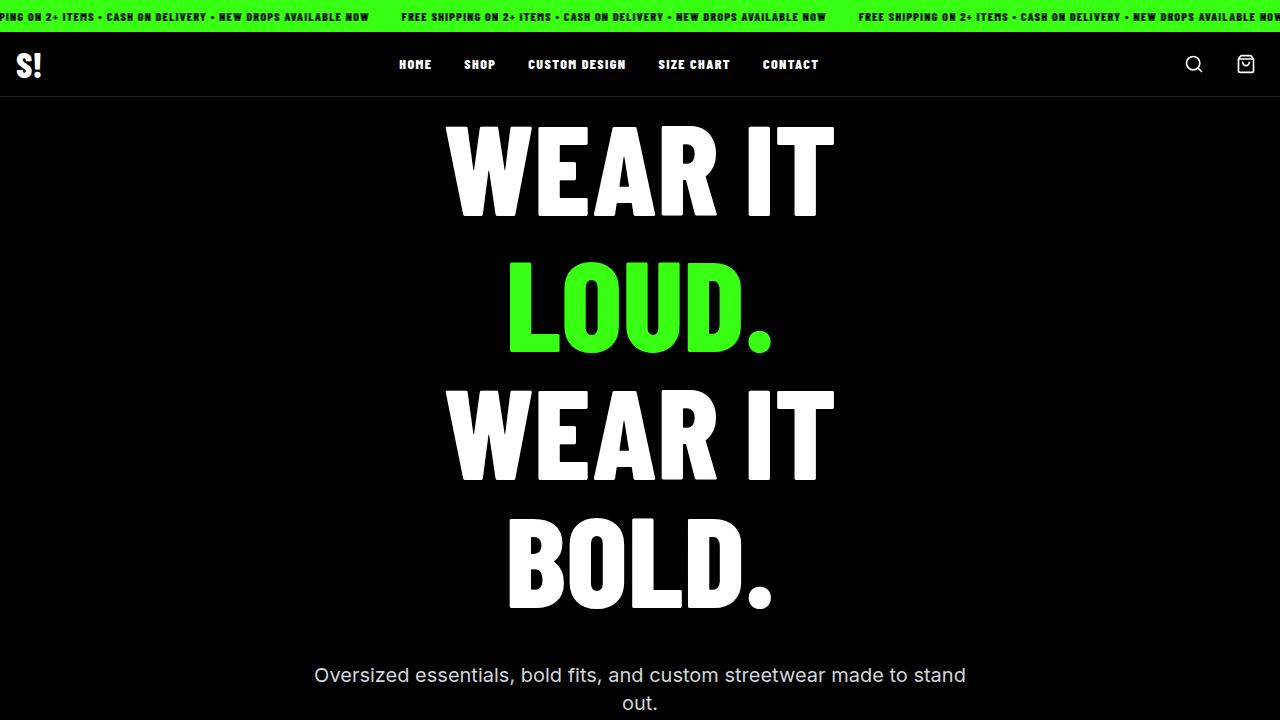
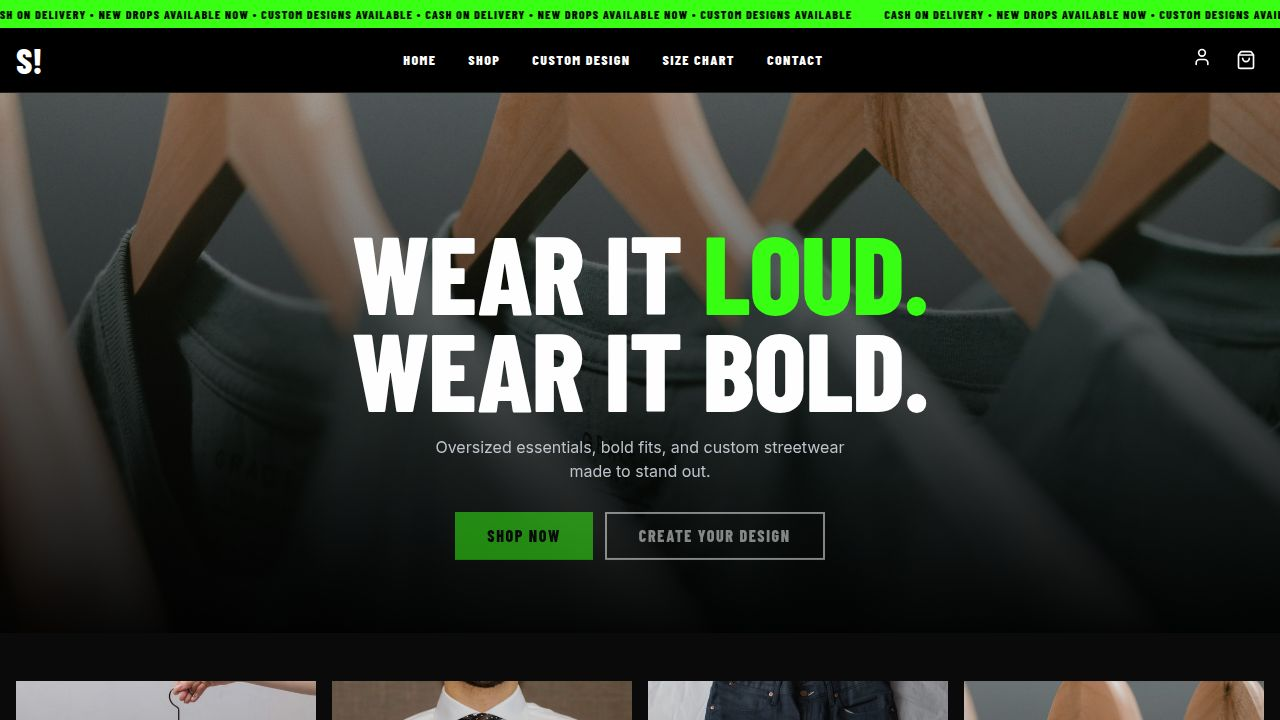
Redesign mobile shop page for a modern streetwear aesthetic
Update the Shop page to feature a responsive 2-column grid, horizontal category tabs, and compact product cards, removing the Hoodies category.

Replit-Commit-Author: Agent
Replit-Commit-Session-Id: 2b9a329d-b7e4-4872-8749-2a048c78b73a
Replit-Commit-Checkpoint-Type: full_checkpoint
Replit-Commit-Event-Id: 2d0367f0-9317-4a3e-8257-197f53873d84
Replit-Commit-Screenshot-Url: https://storage.googleapis.com/screenshot-production-us-central1/153cbb22-09f8-44cc-bff0-399ba0333444/2b9a329d-b7e4-4872-8749-2a048c78b73a/BWOVM8i
Replit-Helium-Checkpoint-Created: true

diff --git a/artifacts/swear/src/pages/ShopPage.tsx b/artifacts/swear/src/pages/ShopPage.tsx
@@ -3,7 +3,9 @@ import { useSearch } from "wouter";
 import { motion } from "framer-motion";
 import { getProducts, getCategories } from "@/hooks/useProducts";
 import { ProductGrid } from "@/components/products/ProductGrid";
-import { SlidersHorizontal } from "lucide-react";
+import { ChevronDown } from "lucide-react";
+
+const FIXED_TABS = ["All", "T-Shirts", "Shirts", "Pants", "Custom Design"];
 
 export default function ShopPage() {
   const searchString = useSearch();
@@ -12,16 +14,20 @@ export default function ShopPage() {
 
   const [category, setCategory] = useState(initialCategory);
   const [sort, setSort] = useState("newest");
-  const [sortOpen, setSortOpen] = useState(false);
 
   const allProducts = useMemo(() => getProducts(), []);
-  const dynamicCategories = useMemo(() => ["All", ...getCategories()], []);
+  const dynamicCategories = useMemo(() => {
+    const cats = getCategories();
+    const tabs = ["All", ...cats.filter(c => c !== "Hoodies")];
+    const extra = tabs.filter(t => !FIXED_TABS.includes(t));
+    const base = FIXED_TABS.filter(t => t === "All" || cats.includes(t));
+    return [...new Set([...base, ...extra])];
+  }, []);
 
   const filteredProducts = useMemo(() => {
-    let result = allProducts;
-    if (category !== "All") {
-      result = result.filter(p => p.category === category);
-    }
+    let result = category === "All"
+      ? allProducts.filter(p => p.category !== "Hoodies")
+      : allProducts.filter(p => p.category === category);
     if (sort === "price-low") {
       result = [...result].sort((a, b) => a.price - b.price);
     } else if (sort === "price-high") {
@@ -32,96 +38,75 @@ export default function ShopPage() {
     return result;
   }, [allProducts, category, sort]);
 
-  const sortLabels: Record<string, string> = {
-    newest: "Newest",
-    "price-low": "Price ↑",
-    "price-high": "Price ↓",
-  };
-
   return (
     <motion.div
       initial={{ opacity: 0 }}
       animate={{ opacity: 1 }}
       exit={{ opacity: 0 }}
-      className="max-w-[1280px] mx-auto px-4 py-8 md:py-12"
+      className="min-h-screen bg-black"
     >
-      <h1 className="font-display font-black uppercase text-white mb-6 md:mb-10"
-        style={{ fontSize: "clamp(2.2rem, 8vw, 5rem)", lineHeight: 0.92 }}>
-        SHOP ALL
-      </h1>
+      <div className="max-w-[1280px] mx-auto px-5 pt-6 pb-12 md:pt-10">
 
-      {/* Category tabs — horizontal scroll on mobile */}
-      <div className="mb-4">
-        <div className="-mx-4 px-4 overflow-x-auto">
-          <div className="flex gap-2 pb-2 min-w-max md:min-w-0 md:flex-wrap">
-            {dynamicCategories.map(cat => (
-              <button
-                key={cat}
-                onClick={() => setCategory(cat)}
-                className={`flex-shrink-0 h-9 px-4 text-xs font-display font-bold uppercase tracking-widest border transition-colors whitespace-nowrap ${
-                  category === cat
-                    ? "bg-primary text-black border-primary"
-                    : "bg-transparent text-muted-foreground border-border hover:text-white hover:border-white/30"
-                }`}
-              >
-                {cat}
-                {cat !== "All" && (
-                  <span className="ml-1.5 opacity-60 font-normal">
-                    ({allProducts.filter(p => p.category === cat).length})
-                  </span>
-                )}
-              </button>
-            ))}
-          </div>
-        </div>
-      </div>
-
-      {/* Sort bar */}
-      <div className="flex items-center justify-between mb-6">
-        <p className="text-xs text-muted-foreground uppercase tracking-widest">
-          {filteredProducts.length} product{filteredProducts.length !== 1 ? "s" : ""}
-        </p>
-
-        {/* Mobile: button toggle */}
-        <div className="relative md:hidden">
-          <button
-            onClick={() => setSortOpen(!sortOpen)}
-            className="flex items-center gap-2 h-9 px-4 border border-border text-white text-xs font-display font-bold uppercase tracking-widest"
+        {/* Page header */}
+        <div className="mb-5">
+          <h1
+            className="font-display font-black uppercase text-white leading-none"
+            style={{ fontSize: "clamp(1.8rem, 7vw, 4.5rem)" }}
           >
-            <SlidersHorizontal size={14} />
-            {sortLabels[sort]}
-          </button>
-          {sortOpen && (
-            <div className="absolute right-0 top-full mt-1 bg-card border border-border z-20 min-w-[140px]">
-              {Object.entries(sortLabels).map(([val, label]) => (
+            SHOP ALL
+          </h1>
+          <p className="text-[#39FF14]/70 text-xs font-display uppercase tracking-widest mt-1">
+            Pick your fit. Built for the street.
+          </p>
+        </div>
+
+        {/* Category tabs — horizontal scroll */}
+        <div className="-mx-5 px-5 overflow-x-auto scrollbar-none mb-3">
+          <div className="flex gap-2 pb-1 min-w-max">
+            {dynamicCategories.map(cat => {
+              const isActive = category === cat;
+              return (
                 <button
-                  key={val}
-                  onClick={() => { setSort(val); setSortOpen(false); }}
-                  className={`block w-full text-left px-4 py-3 text-xs uppercase tracking-widest font-display font-bold transition-colors ${
-                    sort === val ? "text-primary bg-primary/10" : "text-muted-foreground hover:text-white hover:bg-white/5"
+                  key={cat}
+                  onClick={() => setCategory(cat)}
+                  className={`flex-shrink-0 px-4 py-2 text-[11px] font-display font-bold uppercase tracking-widest transition-all duration-200 whitespace-nowrap rounded-sm ${
+                    isActive
+                      ? "bg-[#39FF14] text-black"
+                      : "bg-[#111] text-zinc-400 hover:text-white hover:bg-[#1a1a1a]"
                   }`}
                 >
-                  {label}
+                  {cat}
                 </button>
-              ))}
-            </div>
-          )}
+              );
+            })}
+          </div>
         </div>
 
-        {/* Desktop: inline select */}
-        <select
-          className="hidden md:block bg-card border border-border text-white px-4 h-9 uppercase tracking-wider text-xs appearance-none outline-none focus:border-primary font-display font-bold cursor-pointer"
-          value={sort}
-          onChange={e => setSort(e.target.value)}
-        >
-          <option value="newest">Newest</option>
-          <option value="price-low">Price: Low to High</option>
-          <option value="price-high">Price: High to Low</option>
-        </select>
-      </div>
+        {/* Sort row */}
+        <div className="flex items-center justify-between mb-5 py-2 border-b border-zinc-800">
+          <span className="text-[11px] text-zinc-500 uppercase tracking-widest">
+            {filteredProducts.length} item{filteredProducts.length !== 1 ? "s" : ""}
+          </span>
+          <div className="relative flex items-center gap-1">
+            <span className="text-[11px] text-zinc-500 uppercase tracking-widest">Sort:</span>
+            <div className="relative">
+              <select
+                value={sort}
+                onChange={e => setSort(e.target.value)}
+                className="appearance-none bg-transparent text-white text-[11px] font-display font-bold uppercase tracking-widest pr-5 pl-1 py-1 outline-none cursor-pointer border-none"
+              >
+                <option value="newest" className="bg-black">Newest</option>
+                <option value="price-low" className="bg-black">Price ↑</option>
+                <option value="price-high" className="bg-black">Price ↓</option>
+              </select>
+              <ChevronDown size={11} className="absolute right-0 top-1/2 -translate-y-1/2 text-zinc-400 pointer-events-none" />
+            </div>
+          </div>
+        </div>
 
-      {/* Grid */}
-      <ProductGrid products={filteredProducts} emptyMessage={`No products in ${category} yet.`} />
+        {/* Product grid */}
+        <ProductGrid products={filteredProducts} emptyMessage={`No products in ${category} yet.`} />
+      </div>
     </motion.div>
   );
 }

diff --git a/artifacts/swear/src/data/products.ts b/artifacts/swear/src/data/products.ts
@@ -15,7 +15,6 @@ export const defaultCategories: string[] = [
   "T-Shirts",
   "Shirts",
   "Pants",
-  "Hoodies",
   "Custom Design",
 ];
 
@@ -115,39 +114,6 @@ export const defaultProducts: Product[] = [
       "https://images.unsplash.com/photo-1624378439575-d8705ad7ae80?w=600&h=750&fit=crop",
       "https://images.unsplash.com/photo-1503341504253-dff4815485f1?w=600&h=750&fit=crop",
     ],
-  },
-  {
-    id: "7",
-    name: "Essential Heavyweight Hoodie",
-    price: 599,
-    category: "Hoodies",
-    sizes: ["S", "M", "L", "XL", "2XL"],
-    colors: ["Black", "Charcoal", "White"],
-    description:
-      "400GSM heavyweight cotton-fleece. Double-lined hood, kangaroo front pocket, ribbed cuffs. Brushed fleece interior for warmth without bulk. The S! Wear year-round essential.",
-    images: [
-      "https://images.unsplash.com/photo-1556821840-3a63f95609a7?w=600&h=750&fit=crop",
-      "https://images.unsplash.com/photo-1605518216938-7c31b7b14ad0?w=600&h=750&fit=crop",
-      "https://images.unsplash.com/photo-1591047139829-d91aecb6caea?w=600&h=750&fit=crop",
-    ],
-    isNew: true,
-    isBestSeller: true,
-  },
-  {
-    id: "8",
-    name: "Quarter-Zip Sweatshirt",
-    price: 549,
-    category: "Hoodies",
-    sizes: ["S", "M", "L", "XL", "2XL"],
-    colors: ["Black", "Cream", "Slate Grey"],
-    description:
-      "350GSM cotton-poly blend. Quarter-zip closure with a brushed fleece interior. Clean minimal silhouette with no logo — just premium construction and a perfect fit.",
-    images: [
-      "https://images.unsplash.com/photo-1591047139829-d91aecb6caea?w=600&h=750&fit=crop",
-      "https://images.unsplash.com/photo-1556821840-3a63f95609a7?w=600&h=750&fit=crop",
-      "https://images.unsplash.com/photo-1605518216938-7c31b7b14ad0?w=600&h=750&fit=crop",
-    ],
-    isNew: true,
   },
 ];
 

diff --git a/artifacts/swear/src/components/products/ProductCard.tsx b/artifacts/swear/src/components/products/ProductCard.tsx
@@ -5,7 +5,7 @@ export function ProductCard({ product }: { product: Product }) {
   return (
     <Link
       href={`/shop/${product.id}`}
-      className="group block relative w-full overflow-hidden border border-border hover:border-primary transition-colors duration-300 bg-card"
+      className="group block relative w-full overflow-hidden bg-[#111] hover:bg-[#161616] transition-colors duration-300"
       data-testid={`card-product-${product.id}`}
     >
       {/* Image */}
@@ -18,14 +18,14 @@ export function ProductCard({ product }: { product: Product }) {
         />
 
         {/* Badges */}
-        <div className="absolute top-2 left-2 flex flex-col gap-1.5">
+        <div className="absolute top-2 left-2 flex flex-col gap-1">
           {product.isNew && (
-            <span className="bg-primary text-black font-display uppercase tracking-wide text-[10px] font-bold px-2 py-0.5">
+            <span className="bg-[#39FF14] text-black font-display uppercase tracking-wide text-[9px] font-bold px-1.5 py-0.5">
               NEW
             </span>
           )}
           {product.isBestSeller && (
-            <span className="bg-black/70 text-white font-display uppercase tracking-wide text-[10px] font-bold px-2 py-0.5 border border-white/30">
+            <span className="bg-black/80 text-white font-display uppercase tracking-wide text-[9px] font-bold px-1.5 py-0.5 border border-white/20">
               BEST SELLER
             </span>
           )}
@@ -33,13 +33,13 @@ export function ProductCard({ product }: { product: Product }) {
       </div>
 
       {/* Info */}
-      <div className="p-3 sm:p-4 bg-card">
-        <h3 className="font-display text-sm sm:text-base md:text-lg uppercase tracking-wider text-white truncate leading-tight">
+      <div className="p-2.5 sm:p-3">
+        <h3 className="font-display text-[11px] sm:text-xs md:text-sm uppercase tracking-wider text-white truncate leading-tight">
           {product.name}
         </h3>
-        <p className="text-white font-bold mt-1 text-sm sm:text-base">{product.price} EGP</p>
-        <div className="mt-3 w-full h-9 sm:h-10 bg-primary text-black font-display font-bold uppercase tracking-widest text-xs sm:text-sm flex items-center justify-center hover:bg-white transition-colors">
-          VIEW PRODUCT
+        <p className="text-white font-bold mt-0.5 text-xs sm:text-sm">{product.price} EGP</p>
+        <div className="mt-2 w-full py-1.5 bg-[#39FF14] text-black font-display font-bold uppercase tracking-widest text-[10px] sm:text-xs flex items-center justify-center group-hover:bg-white transition-colors">
+          View Product
         </div>
       </div>
     </Link>

diff --git a/artifacts/swear/src/components/products/ProductGrid.tsx b/artifacts/swear/src/components/products/ProductGrid.tsx
@@ -10,18 +10,18 @@ interface ProductGridProps {
 export function ProductGrid({ products, emptyMessage = "No products found.", cols = "3" }: ProductGridProps) {
   if (products.length === 0) {
     return (
-      <div className="w-full py-12 flex items-center justify-center text-muted-foreground">
-        <p className="uppercase tracking-widest text-sm">{emptyMessage}</p>
+      <div className="w-full py-16 flex items-center justify-center text-zinc-600">
+        <p className="uppercase tracking-widest text-xs">{emptyMessage}</p>
       </div>
     );
   }
 
   const gridClass =
     cols === "1"
-      ? "grid grid-cols-1 gap-4 sm:gap-6"
+      ? "grid grid-cols-1 gap-3 sm:gap-4"
       : cols === "2"
-      ? "grid grid-cols-2 gap-3 sm:gap-6"
-      : "grid grid-cols-2 sm:grid-cols-2 lg:grid-cols-3 gap-3 sm:gap-6";
+      ? "grid grid-cols-2 gap-3 sm:gap-4"
+      : "grid grid-cols-2 md:grid-cols-3 lg:grid-cols-4 gap-3 sm:gap-4";
 
   return (
     <div className={gridClass} data-testid="product-grid">

diff --git a/artifacts/swear/src/hooks/useProducts.ts b/artifacts/swear/src/hooks/useProducts.ts
@@ -1,7 +1,7 @@
 import { defaultProducts, defaultCategories, Product } from "@/data/products";
 
-const PRODUCTS_VERSION = "v2";
-const CATEGORIES_VERSION = "v1";
+const PRODUCTS_VERSION = "v3";
+const CATEGORIES_VERSION = "v2";
 
 export function getProducts(): Product[] {
   try {
@@ -39,7 +39,6 @@ export function saveCategories(categories: string[]): void {
   localStorage.setItem("swear_categories_version", CATEGORIES_VERSION);
 }
 
-/** Maps category name → image URL or base64 data URI */
 export function getCategoryImages(): Record<string, string> {
   try {
     const stored = localStorage.getItem("swear_category_images");